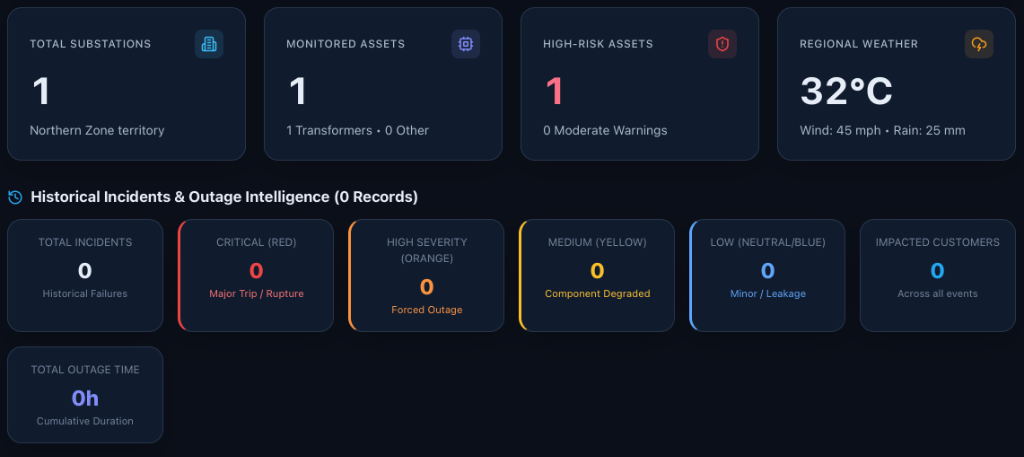
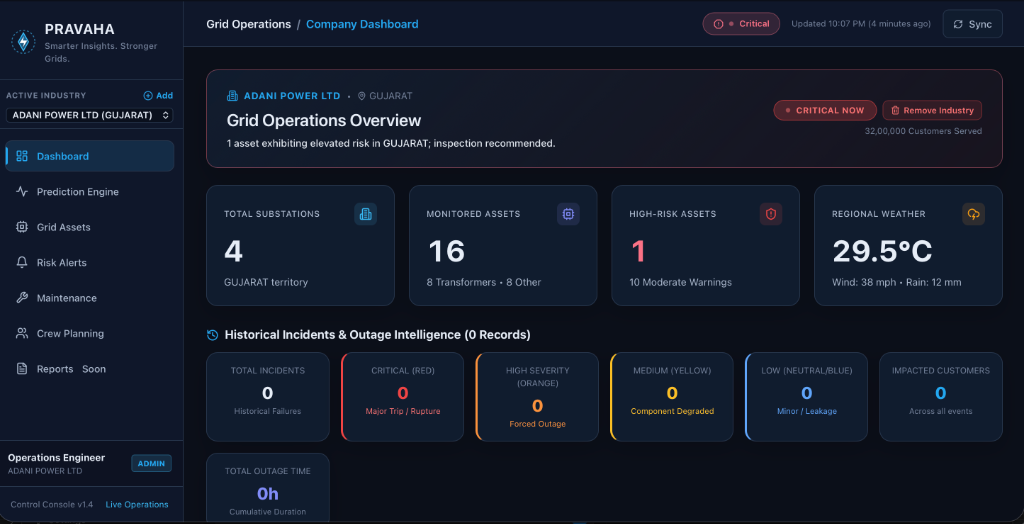
feat: attach full application screenshots and ensure complete frontend and backend in src/

diff --git a/demo/screenshots/README.md b/demo/screenshots/README.md
@@ -1,26 +1,9 @@
-# Screenshots
+# PRAVAHA Application Screenshots
 
-Place your application screenshots in this folder.
+These screenshots demonstrate the operational features and user journey of **PRAVAHA — Power Grid Outage Prediction & Machine Health Advisory**:
 
-## Naming Convention
-
-Name your screenshots sequentially so they appear in logical order:
-
-  01-landing-page.png       ← First thing a user sees
-  02-main-feature.png       ← Your primary feature in action
-  03-output-or-results.png  ← The result / value delivered
-  04-additional-feature.png ← Any other notable screen
-
-## Requirements
-
-- Minimum: 3 screenshots
-- Format: PNG or JPG
-- Show the application running with real (or realistic mock) data
-- Avoid screenshots of empty states or placeholder data
-- Captions are not required but appreciated
-
-## Tips
-
-- Use a consistent browser window size across all screenshots
-- Highlight key UI elements with arrows/circles if helpful (use any image editor)
-- Include a screenshot showing IBM technology integration if applicable
+1. **`01-home-dashboard.png`** — **Grid Operations Overview**: Live telemetry status for Adani Power Ltd (Gujarat territory), active substations, monitored assets count, regional weather tracking, and failure incident summaries.
+2. **`02-substations-threat-intel.png`** — **Substations Network & Live Risk Alerts**: Real-time asset-level risk scoring (75% High, 40% Medium, 25% Low) with deterministic advisory actions and industry scoping.
+3. **`03-historical-incidents.png`** — **Historical Outage & Equipment Failure Records**: Dedicated outage intelligence table tracking equipment failures, severity levels, outage durations, and affected customers.
+4. **`04-maintenance-crew-positioning.png`** — **Maintenance Work-Orders & Severe Storm Crew Pre-Positioning**: Automated preventative maintenance work orders and standby crew staging across regional substations.
+5. **`05-dga-ml-prediction-engine.png`** — **Trained DGA ML Prediction Engine**: Live execution of trained Gradient Boosting & Random Forest models on equipment telemetry, estimating health scores, failure risk, and remaining useful life.
